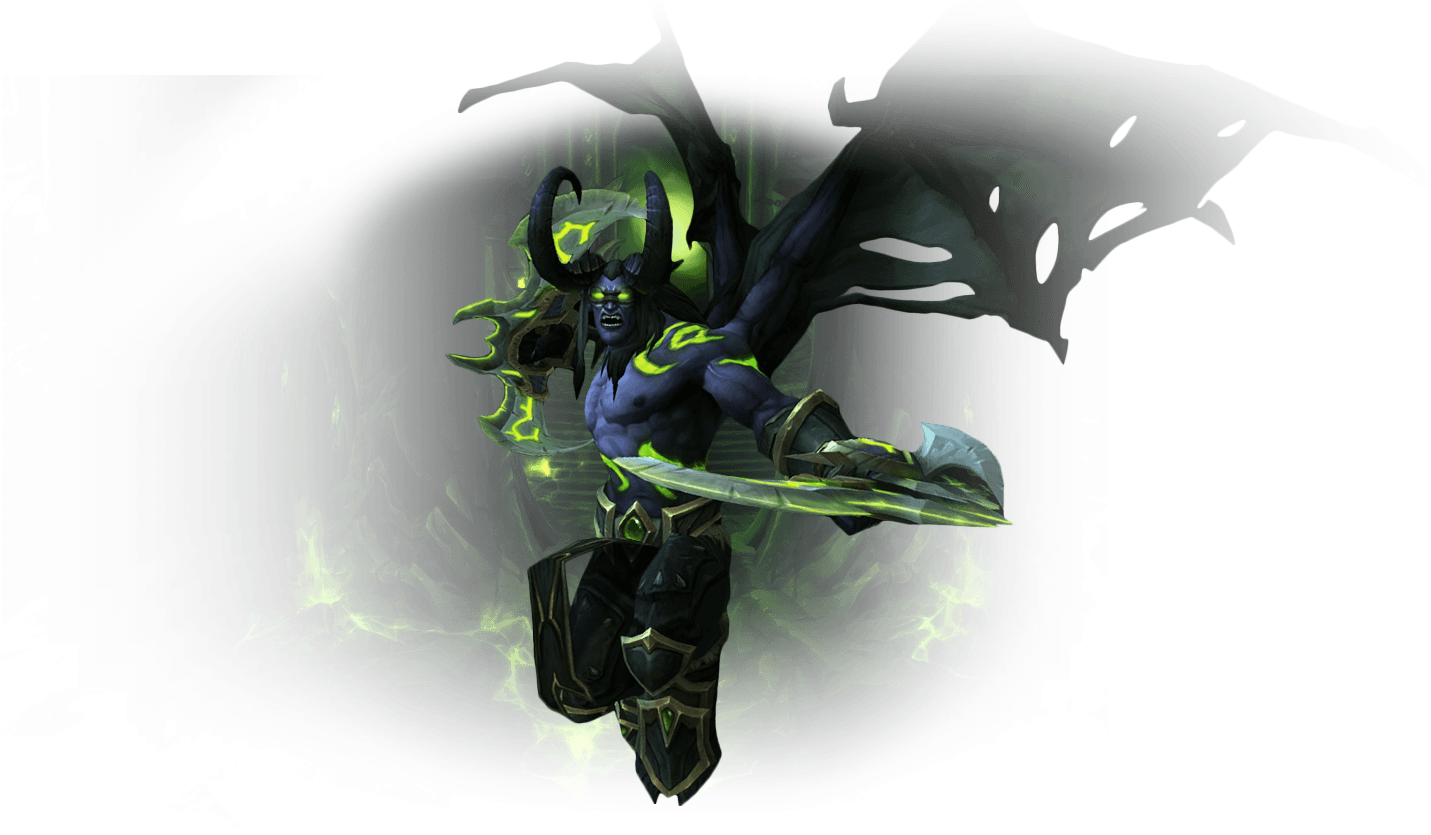
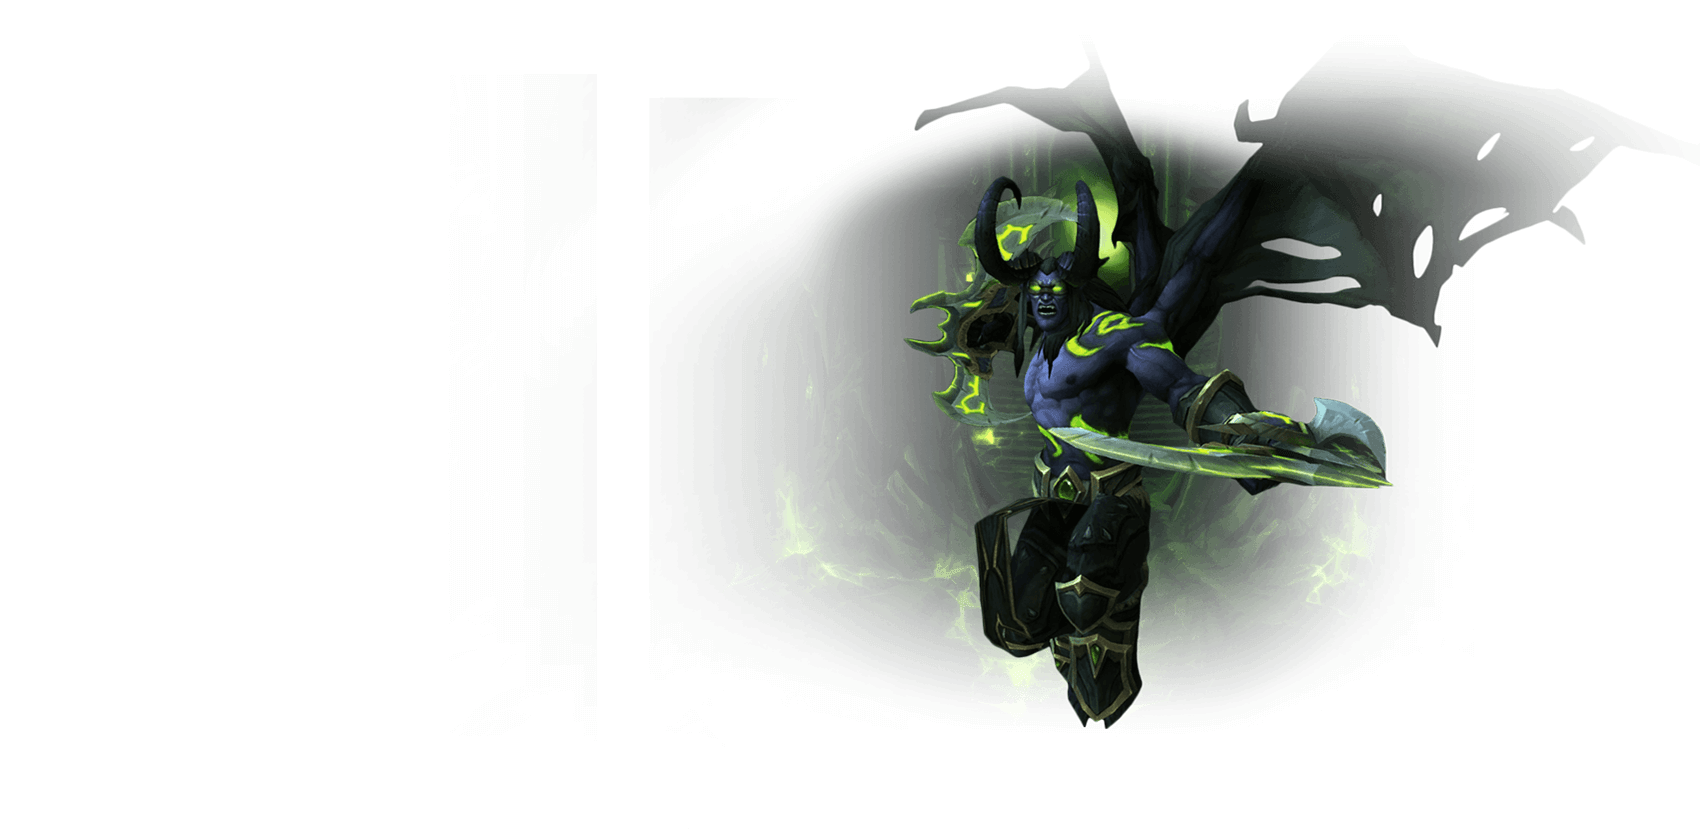
backgrounds fixed

diff --git a/client/index.html b/client/index.html
@@ -11,13 +11,12 @@
 
 <body ng-controller="SharedController as shared" id="top">
 	<div class="container-fluid">
+
 		<header class="header">	
 			<div class="top-panel">
 				<div class="logo"></div>
 			</div>
-			<div class="section__bg">
-
-			</div>
+			<div class="section__bg"></div>
 		</header>
 
 		<section id="sec-1" class="section section--1">
@@ -101,12 +100,11 @@
 							<i class="thumbnails__icon"></i>
 						</div>
 					</div>
-					<div class="section__bg">
+				</div>
+				<div class="section__bg">
+					<div class="container">
 						<div class="row">
-							<div class="col-sm-6 col-md-6">
-								<img class="img-responsive section__boss" src="resources/img/section-2/boss.png" alt="alt">
-							</div>
-							<div class="col-sm-6 col-md-6">
+							<div class="col-md-offset-6 col-md-6">
 								<h3 class="section__subtitle">
 									<i class="symbol symbol--3"></i>
 									<span>Black Rook Hold</span>
@@ -126,6 +124,13 @@
 								</div>
 								<p class="section__text">
 									<span class="selected-text">Illysanna Ravencrest</span> – The daughter of Lord Ravencrest, imprisoned for millennia in the Vault of the Wardens shortly after the War of Ancients, found herself free after Maiev released the demon hunters from their prison. Returning to her ancestral home, she has sacrificed everything - including her very soul - to defend what she could not during the War of the Ancients.
+									<br>
+									<br>
+									<br>
+									<br>
+									<br>
+									<br>
+									<br>
 								</p>
 							</div>
 						</div>
@@ -468,8 +473,8 @@
 							</div>
 						</div>
 					</div>
-				</div>
-				
+					<div class="border-middle"></div>
+				</div>	
 			</div>
 		</section>
 
@@ -480,8 +485,8 @@
 			</div>
 			<div class="top-panel"></div>
 			<div class="section__content">
-				<div class="container">
-					<div class="section__bg">
+				<div class="section__bg">
+					<div class="container">
 						<div class="row">
 							<div class="col-md-6">
 								<h3 class="section__subtitle">
@@ -497,6 +502,11 @@
 								</h3>
 								<p class="section__text">
 									Integer tempus imperdiet tortor eget accumsan. Nullam feugiat eros eget commodo viverra. Donec tellus justo, dignissim eu egestas ac, sagittis nec libero. Etiam luctus iaculis venenatis. Morbi pharetra ut lacus malesuada placerat. Nullam pulvinar congue nulla quis sollicitudin. Nulla hendrerit scelerisque dolor nec malesuada. Mauris eget vehicula metus. Morbi tempor elit nibh, sit amet quam in mattis ut risus a sollicitudin.
+									<br>
+									<br>
+									<br>
+									<br>
+									<br>
 								</p>
 							</div>
 						</div>
@@ -532,9 +542,9 @@
 								</div>
 							</div>
 							<div class="board__control-group">
-								<div class="board__title">What level of key you have?</div>
-								<div class="l-row">
-									<select class="wow-select">
+								<div class="board__title is-disabled">What level of key you have?</div>
+								<div class="l-row control-is-disabled">
+									<select class="wow-select" disabled>
 										<option value="1">1</option>
 										<option value="2">2</option>
 										<option value="3">3</option>
@@ -543,9 +553,9 @@
 								</div>
 							</div>
 							<div class="board__control-group">
-								<div class="board__title">Your keystone dungeon:</div>
-								<div class="l-row">
-									<select class="wow-select">
+								<div class="board__title is-disabled">Your keystone dungeon:</div>
+								<div class="l-row control-is-disabled">
+									<select class="wow-select" disabled>
 										<option value="Vault of the Wardens">Vault of the Wardens</option>
 										<option value="Option #2">Option #2</option>
 										<option value="Option #3">Option #3</option>
@@ -826,6 +836,7 @@
 				
 			</ul>
 		</nav>
+
 	</div>
 	<script src="bower_components/jquery/dist/jquery.min.js"></script>
 	<script src="bower_components/angular/angular.min.js"></script>

diff --git a/client/dist/bundle.css b/client/dist/bundle.css
@@ -97,6 +97,14 @@ a:focus {
   outline: none;
   text-decoration: none;
 }
+::selection {
+  background-color: #9aea00;
+  color: #fff;
+}
+::-moz-selection {
+  background-color: #9aea00;
+  color: #fff;
+}
 .container-fluid {
   padding: 0;
   margin: 0;
@@ -227,6 +235,13 @@ a:focus {
 .section .board__title span {
   color: #9aea00;
 }
+.section .board__title.is-disabled {
+  color: #595959;
+  -webkit-user-select: none;
+  -moz-user-select: none;
+  -ms-user-select: none;
+  user-select: none;
+}
 .section .board__control-group {
   margin-bottom: 28px;
 }
@@ -249,6 +264,42 @@ a:focus {
   -ms-flex-pack: start;
   -webkit-justify-content: flex-start;
   justify-content: flex-start;
+}
+.section .control-is-disabled .wow-select {
+  border: 1px solid #595959;
+  color: #595959;
+  background-image: url("../resources/img/components/select/marker-g.png");
+  cursor: default;
+}
+.section .control-is-disabled .wow-input {
+  border: 1px solid #595959;
+  color: #595959;
+}
+.section .control-is-disabled .divider {
+  color: #595959;
+}
+.section .control-is-disabled .wow-radio:not(checked) + label:before {
+  border: 1px solid #595959;
+  -webkit-box-shadow: none;
+  box-shadow: none;
+  cursor: default;
+}
+.section .control-is-disabled .wow-radio:checked + label:before {
+  background-image: url("../resources/img/components/radio/marker-g.png");
+}
+.section .control-is-disabled .wow-radio-text {
+  color: #595959;
+  cursor: default;
+}
+.section .control-is-disabled .wow-checkbox:not(checked) + label:before {
+  border: 1px solid #595959;
+  -webkit-box-shadow: none;
+  box-shadow: none;
+  cursor: default;
+}
+.section .control-is-disabled .wow-checkbox-label {
+  color: #595959;
+  cursor: default;
 }
 .wow-btn {
   border: 0;
@@ -736,18 +787,10 @@ a:focus {
   position: relative;
   z-index: 10;
 }
-.section--1 .section__bg {
-  background-position: 200px 0;
-}
-@media all and (min-width: 1024px) {
+@media all and (min-width: 768px) {
   .section--1 .section__bg {
-    background-position: 340px 0;
+    background-position: center;
     background-image: url("../resources/img/section-1/bg.png");
-  }
-}
-@media all and (min-width: 1600px) {
-  .section--1 .section__bg {
-    min-height: 1080px;
   }
 }
 .section--1 .top-panel {
@@ -776,11 +819,11 @@ a:focus {
   margin-top: 140px;
 }
 .section--2 .section__bg {
-  margin-top: -20px;
-  background-position: -100px 0;
+  margin-top: -19px;
 }
 @media all and (min-width: 640px) {
   .section--2 .section__bg {
+    background-position: center;
     background-image: url("../resources/img/section-2/bg.png");
   }
 }
@@ -848,16 +891,6 @@ a:focus {
   height: 30px;
   background-image: url("../resources/icons/skull.png");
 }
-@media all and (max-width: 640px) {
-  .section--2 .section__boss {
-    display: none;
-  }
-}
-@media all and (min-width: 640px) {
-  .section--2 .section__boss {
-    margin-left: -100px;
-  }
-}
 .section--2 .labels {
   position: relative;
   -webkit-box-pack: start;
@@ -887,7 +920,7 @@ a:focus {
 }
 .section--3 .top-panel {
   position: absolute;
-  margin-top: -90px;
+  margin-top: -80px;
   width: 100%;
   height: auto;
   min-height: 96px;
@@ -1045,7 +1078,7 @@ a:focus {
 }
 @media all and (min-width: 1200px) {
   .section--4 {
-    margin-top: 90px;
+    margin-top: 70px;
   }
 }
 .section--4 .top-panel {
@@ -1058,11 +1091,11 @@ a:focus {
   background-image: url("../resources/img/section-4/top-panel.png");
 }
 .section--4 .section__bg {
-  padding-top: 40px;
-  background-position: 50px -47px;
+  margin-top: 12px;
 }
 @media all and (min-width: 640px) {
   .section--4 .section__bg {
+    background-position: center;
     background-image: url("../resources/img/section-4/bg.png");
   }
 }
